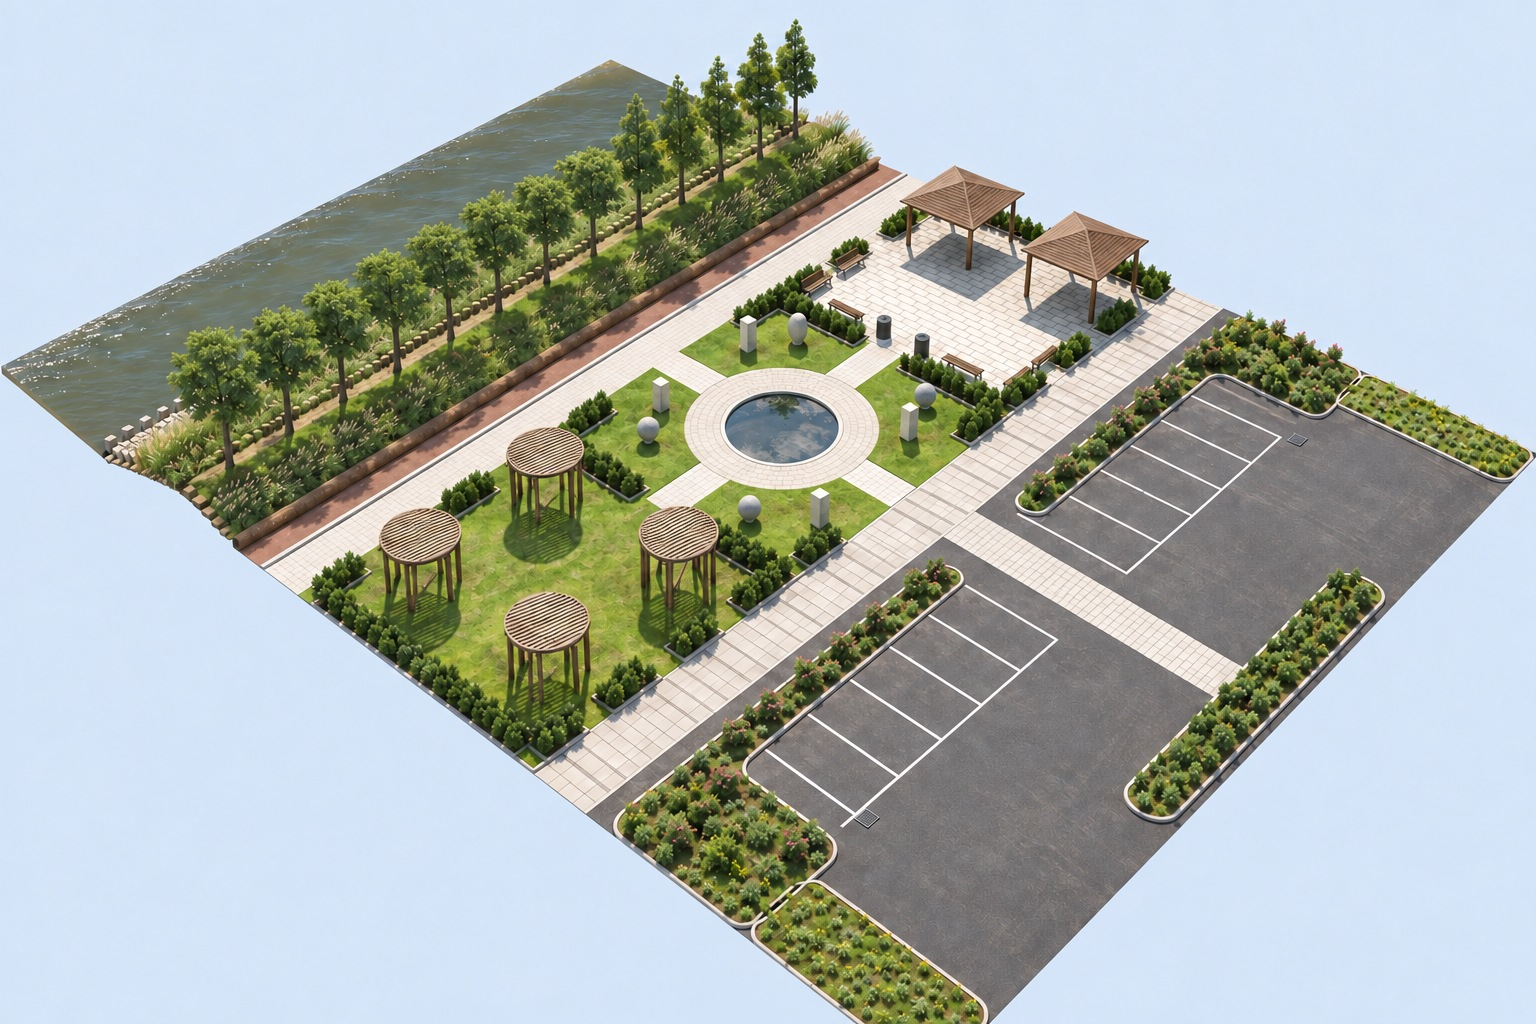
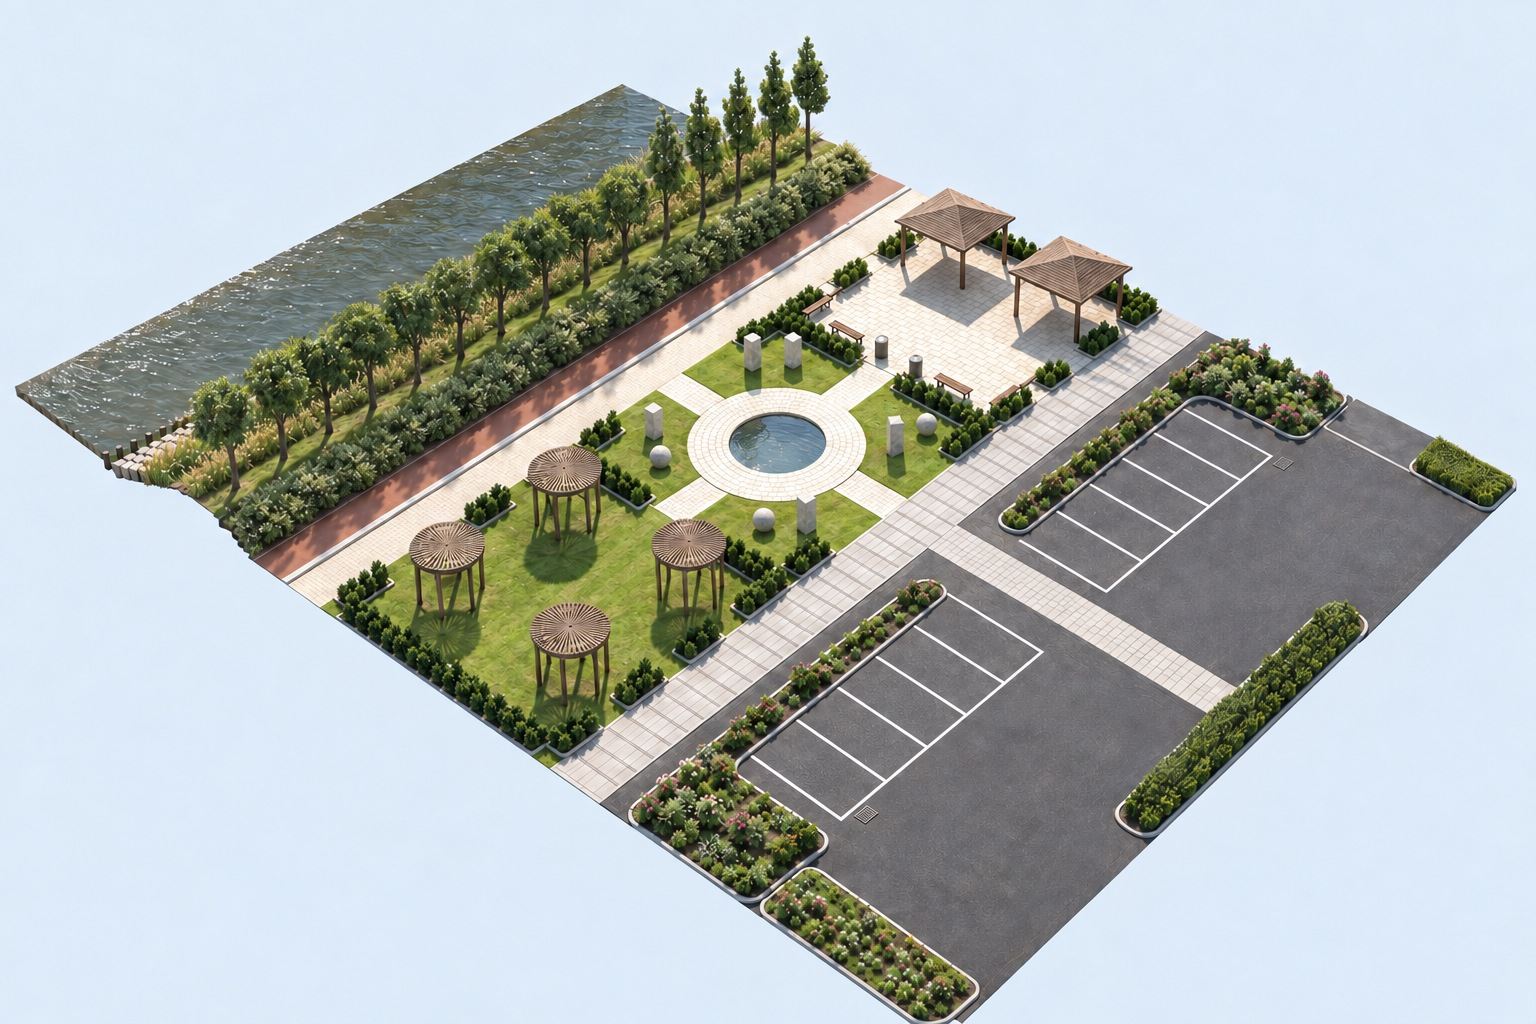
428 동측 완충녹지를 경계에 붙인다 — 차량 입·출구가 도로로 이어진다
주차장 오른쪽 경계가 이상하다는 지적에 도면을 다시 쟀다. 회양목 띠는
x 52.9~55.0 · y 12.7~28.1 로 동측 경계에 붙어 있는데, 모형은 52.0~53.8 에
띄워 놓아 경계 쪽에 아무것도 없는 아스팔트 띠가 남아 있었다.

띠를 경계에 붙이자 위아래 틈이 제 구실을 한다 — 도면에 ▶ 로 표시된
차량입구(북)·차량출구(남)이고, 그리로 아스팔트가 빠져나가 도로에 붙는다.

위에서 내려다보는 평면도·축측도에서는 경계 쪽 아스팔트가 그냥 주차장의
일부로 보여 눈에 안 띄었다. 비스듬히 보는 조감도에서야 드러났다 —
40m 짜리 기둥 때와 같다.

조감도 세 장(경관판·대상지판·모형)을 모두 고친 모형에서 다시 만들었고,
주차 5+5 · 조각 8 을 세어 확인했다.

diff --git a/_ls_drawing_refs/428_조감도/content.md b/_ls_drawing_refs/428_조감도/content.md
@@ -152,3 +152,17 @@
 - **부지 경계가 사라진 것은 그림의 목적상 맞지만**, 어디까지가 대상지인지 알아야 할
   때가 있으므로 **바로 다음 장에 경계가 또렷한 판**을 함께 둡니다
 
+## 동측 완충녹지를 제자리로 (2026-09)
+
+주차장 오른쪽 경계가 이상하다는 지적을 받고 **도면을 다시 쟀습니다.** 답안 도면의
+회양목 띠는 **x 52.9~55.0, y 12.7~28.1** 로 동측 경계에 **붙어** 있는데, 모형은
+52.0~53.8 에 띄워 놓아 경계 쪽에 아무것도 없는 아스팔트 띠가 남아 있었습니다.
+
+띠를 경계에 붙이자 그 위(y 2.8~12.7)와 아래(y 28.1~37.2)의 틈이 제 구실을 합니다 —
+도면에 ▶ 로 표시된 **차량입구(북)·차량출구(남)** 이고, 그리로 아스팔트가 빠져나가
+도로에 붙습니다. 실사 그림에서도 그 두 곳이 진입로로 읽히게 했습니다.
+
+> 이 잘못은 **위에서 내려다보는 평면도·축측도에서는 눈에 안 띄었습니다.** 경계 쪽
+> 아스팔트가 그냥 주차장의 일부로 보였기 때문입니다. 비스듬히 보는 조감도에서야
+> "저기에 왜 아무것도 없지" 가 드러났습니다 — 40m 짜리 기둥 때와 같습니다.
+
